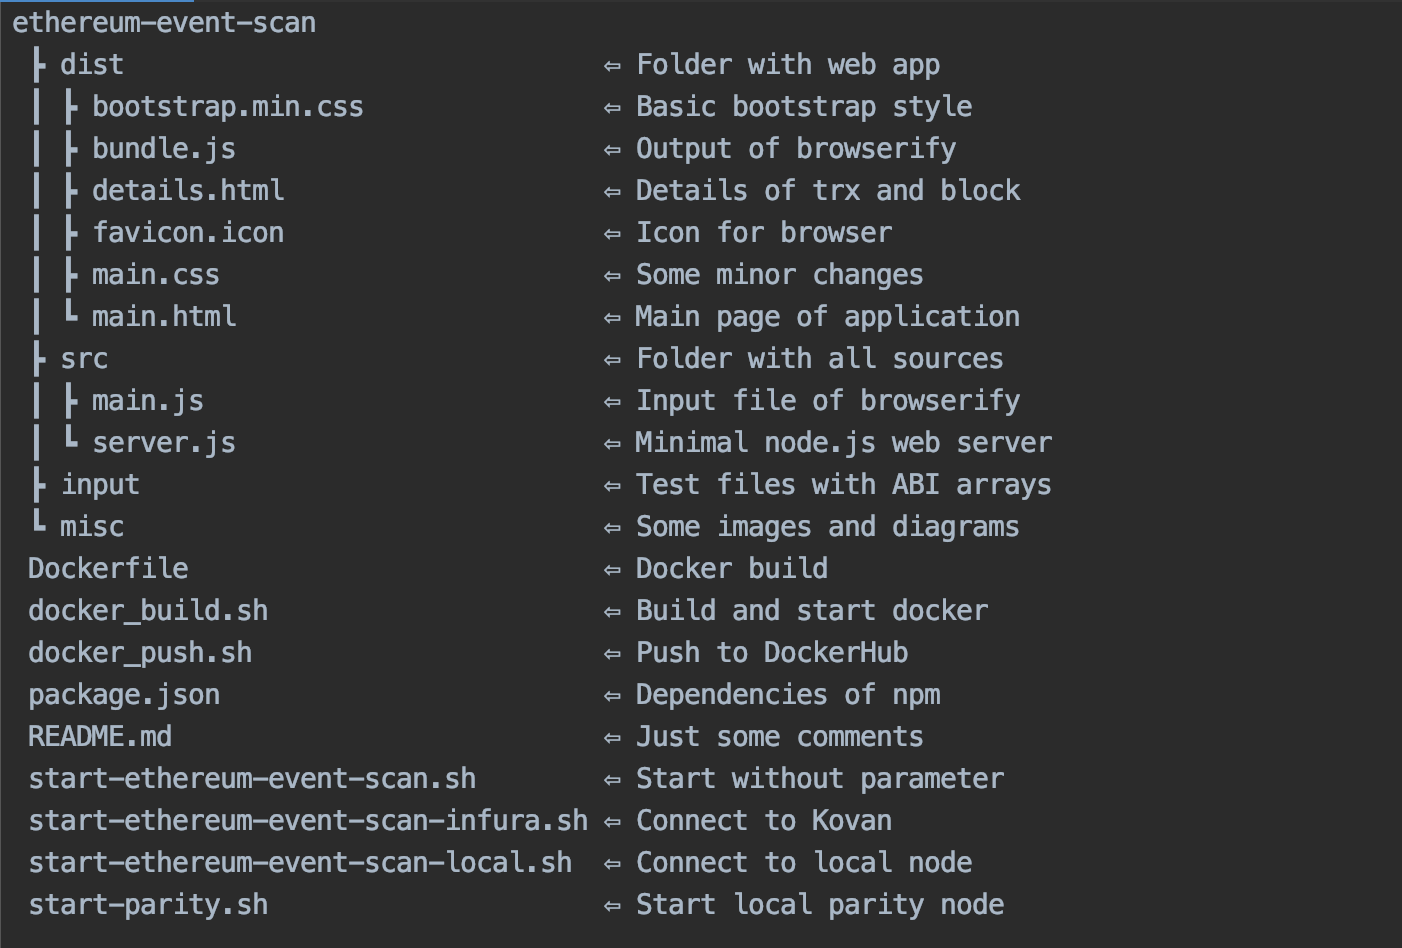
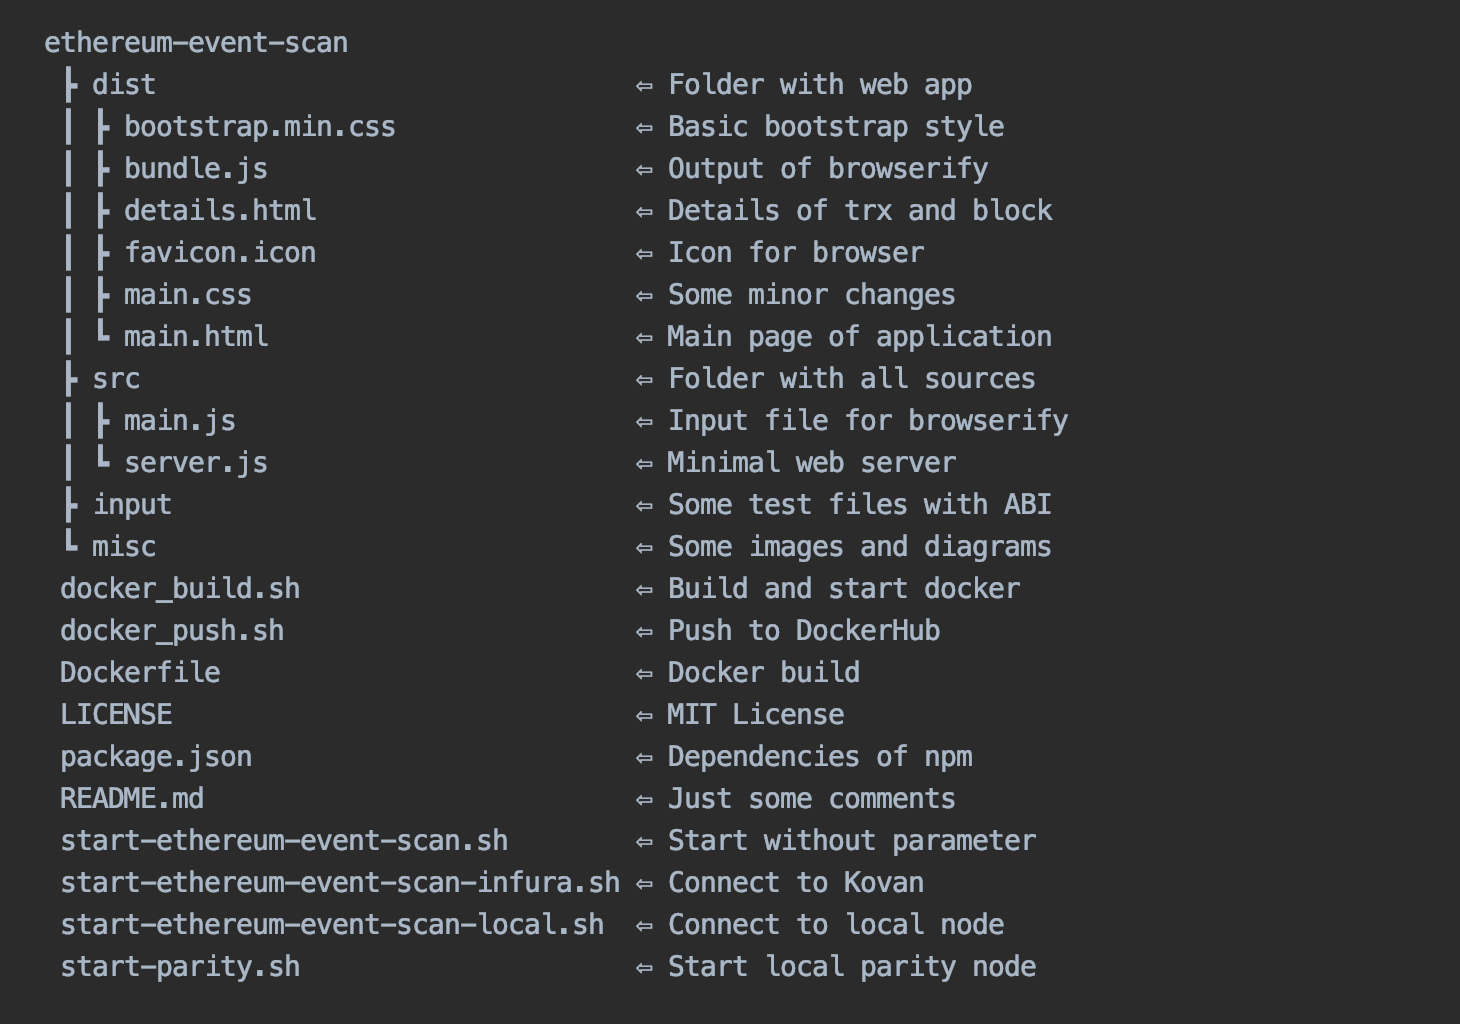
Add license to source files

Changed region(s): [[0.0, 0.0, 0.7668, 0.9789]]

diff --git a/src/server.js b/src/server.js
@@ -1,9 +1,30 @@
-////////////////////////////////////////////////////////////////////////////////////////////////////////////////////////
+/**
+ * MIT License
+ *
+ * Copyright (c) 2019 Markus Sprunck (sprunck.markus@gmail.com)
+ *
+ * Permission is hereby granted, free of charge, to any person obtaining a copy
+ * of this software and associated documentation files (the "Software"), to deal
+ * in the Software without restriction, including without limitation the rights
+ * to use, copy, modify, merge, publish, distribute, sublicense, and/or sell
+ * copies of the Software, and to permit persons to whom the Software is
+ * furnished to do so, subject to the following conditions:
+ *
+ * The above copyright notice and this permission notice shall be included in all
+ * copies or substantial portions of the Software.
+ *
+ * THE SOFTWARE IS PROVIDED "AS IS", WITHOUT WARRANTY OF ANY KIND, EXPRESS OR
+ * IMPLIED, INCLUDING BUT NOT LIMITED TO THE WARRANTIES OF MERCHANTABILITY,
+ * FITNESS FOR A PARTICULAR PURPOSE AND NONINFRINGEMENT. IN NO EVENT SHALL THE
+ * AUTHORS OR COPYRIGHT HOLDERS BE LIABLE FOR ANY CLAIM, DAMAGES OR OTHER
+ * LIABILITY, WHETHER IN AN ACTION OF CONTRACT, TORT OR OTHERWISE, ARISING FROM,
+ * OUT OF OR IN CONNECTION WITH THE SOFTWARE OR THE USE OR OTHER DEALINGS IN THE
+ * SOFTWARE.
+ */
+
 const http = require('http');
 const fs = require('fs');
 
-
-////////////////////////////////////////////////////////////////////////////////////////////////////////////////////////
 let SERVER_PORT = 55226;
 let SERVER_IP = 'localhost';
 let PROVIDER = "ws://127.0.0.1:8546";
@@ -16,7 +37,6 @@ if (args.length === 2) {
 
 console.log('\nhttp://' + SERVER_IP + ':' + SERVER_PORT + '/main.html?rpc=' + PROVIDER + '\n');
 
-////////////////////////////////////////////////////////////////////////////////////////////////////////////////////////
 http.createServer(function (request, response) {
         if (request.method === 'GET') {
             try {
@@ -32,5 +52,5 @@ http.createServer(function (request, response) {
         }
     }
 ).listen(SERVER_PORT);
-////////////////////////////////////////////////////////////////////////////////////////////////////////////////////////
+
 

diff --git a/src/main.js b/src/main.js
@@ -1,13 +1,39 @@
 /**
+ * MIT License
+ *
+ * Copyright (c) 2019 Markus Sprunck (sprunck.markus@gmail.com)
+ *
+ * Permission is hereby granted, free of charge, to any person obtaining a copy
+ * of this software and associated documentation files (the "Software"), to deal
+ * in the Software without restriction, including without limitation the rights
+ * to use, copy, modify, merge, publish, distribute, sublicense, and/or sell
+ * copies of the Software, and to permit persons to whom the Software is
+ * furnished to do so, subject to the following conditions:
+ *
+ * The above copyright notice and this permission notice shall be included in all
+ * copies or substantial portions of the Software.
+ *
+ * THE SOFTWARE IS PROVIDED "AS IS", WITHOUT WARRANTY OF ANY KIND, EXPRESS OR
+ * IMPLIED, INCLUDING BUT NOT LIMITED TO THE WARRANTIES OF MERCHANTABILITY,
+ * FITNESS FOR A PARTICULAR PURPOSE AND NONINFRINGEMENT. IN NO EVENT SHALL THE
+ * AUTHORS OR COPYRIGHT HOLDERS BE LIABLE FOR ANY CLAIM, DAMAGES OR OTHER
+ * LIABILITY, WHETHER IN AN ACTION OF CONTRACT, TORT OR OTHERWISE, ARISING FROM,
+ * OUT OF OR IN CONNECTION WITH THE SOFTWARE OR THE USE OR OTHER DEALINGS IN THE
+ * SOFTWARE.
+ */
+
+
+/**
  * Load all libraries
  */
 let Web3 = require('web3');             // Connect to Ethereum network
 let ZLib = require('zlib');             // Compression of abi file for URL parameter encoding
 let blockies = require('blockies');     // Render coloured images
 let $ = require("jquery");              // UI helpers
-global.jQuery = $;                      // Needed to run Bootstrap with jQuery
+global.jQuery = $;                          // Needed to run Bootstrap with jQuery
 require("bootstrap");                   // UI framework
 require("twbs-pagination");             // Paginator support
+
 
 /**
  * Global constants and message texts

diff --git a/dist/details.html b/dist/details.html
@@ -1,3 +1,26 @@
+<!--
+    MIT License
+
+    Copyright (c) 2019 Markus Sprunck (sprunck.markus@gmail.com)
+
+    Permission is hereby granted, free of charge, to any person obtaining a copy
+    of this software and associated documentation files (the "Software"), to deal
+    in the Software without restriction, including without limitation the rights
+    to use, copy, modify, merge, publish, distribute, sublicense, and/or sell
+    copies of the Software, and to permit persons to whom the Software is
+    furnished to do so, subject to the following conditions:
+
+    The above copyright notice and this permission notice shall be included in all
+    copies or substantial portions of the Software.
+
+    THE SOFTWARE IS PROVIDED "AS IS", WITHOUT WARRANTY OF ANY KIND, EXPRESS OR
+    IMPLIED, INCLUDING BUT NOT LIMITED TO THE WARRANTIES OF MERCHANTABILITY,
+    FITNESS FOR A PARTICULAR PURPOSE AND NONINFRINGEMENT. IN NO EVENT SHALL THE
+    AUTHORS OR COPYRIGHT HOLDERS BE LIABLE FOR ANY CLAIM, DAMAGES OR OTHER
+    LIABILITY, WHETHER IN AN ACTION OF CONTRACT, TORT OR OTHERWISE, ARISING FROM,
+    OUT OF OR IN CONNECTION WITH THE SOFTWARE OR THE USE OR OTHER DEALINGS IN THE
+    SOFTWARE.
+-->
 <html lang="en">
 <head>
     <meta charset="utf-8">

diff --git a/dist/main.html b/dist/main.html
@@ -1,3 +1,26 @@
+<!--
+    MIT License
+
+    Copyright (c) 2019 Markus Sprunck (sprunck.markus@gmail.com)
+
+    Permission is hereby granted, free of charge, to any person obtaining a copy
+    of this software and associated documentation files (the "Software"), to deal
+    in the Software without restriction, including without limitation the rights
+    to use, copy, modify, merge, publish, distribute, sublicense, and/or sell
+    copies of the Software, and to permit persons to whom the Software is
+    furnished to do so, subject to the following conditions:
+
+    The above copyright notice and this permission notice shall be included in all
+    copies or substantial portions of the Software.
+
+    THE SOFTWARE IS PROVIDED "AS IS", WITHOUT WARRANTY OF ANY KIND, EXPRESS OR
+    IMPLIED, INCLUDING BUT NOT LIMITED TO THE WARRANTIES OF MERCHANTABILITY,
+    FITNESS FOR A PARTICULAR PURPOSE AND NONINFRINGEMENT. IN NO EVENT SHALL THE
+    AUTHORS OR COPYRIGHT HOLDERS BE LIABLE FOR ANY CLAIM, DAMAGES OR OTHER
+    LIABILITY, WHETHER IN AN ACTION OF CONTRACT, TORT OR OTHERWISE, ARISING FROM,
+    OUT OF OR IN CONNECTION WITH THE SOFTWARE OR THE USE OR OTHER DEALINGS IN THE
+    SOFTWARE.
+-->
 <html lang="en">
 <head>
     <meta charset="utf-8">

diff --git a/dist/main.css b/dist/main.css
@@ -1,3 +1,27 @@
+/*
+    MIT License
+
+    Copyright (c) 2019 Markus Sprunck (sprunck.markus@gmail.com)
+
+    Permission is hereby granted, free of charge, to any person obtaining a copy
+    of this software and associated documentation files (the "Software"), to deal
+    in the Software without restriction, including without limitation the rights
+    to use, copy, modify, merge, publish, distribute, sublicense, and/or sell
+    copies of the Software, and to permit persons to whom the Software is
+    furnished to do so, subject to the following conditions:
+
+    The above copyright notice and this permission notice shall be included in all
+    copies or substantial portions of the Software.
+
+    THE SOFTWARE IS PROVIDED "AS IS", WITHOUT WARRANTY OF ANY KIND, EXPRESS OR
+    IMPLIED, INCLUDING BUT NOT LIMITED TO THE WARRANTIES OF MERCHANTABILITY,
+    FITNESS FOR A PARTICULAR PURPOSE AND NONINFRINGEMENT. IN NO EVENT SHALL THE
+    AUTHORS OR COPYRIGHT HOLDERS BE LIABLE FOR ANY CLAIM, DAMAGES OR OTHER
+    LIABILITY, WHETHER IN AN ACTION OF CONTRACT, TORT OR OTHERWISE, ARISING FROM,
+    OUT OF OR IN CONNECTION WITH THE SOFTWARE OR THE USE OR OTHER DEALINGS IN THE
+    SOFTWARE.
+ */
+
 body {
     font-size: medium;
 }
